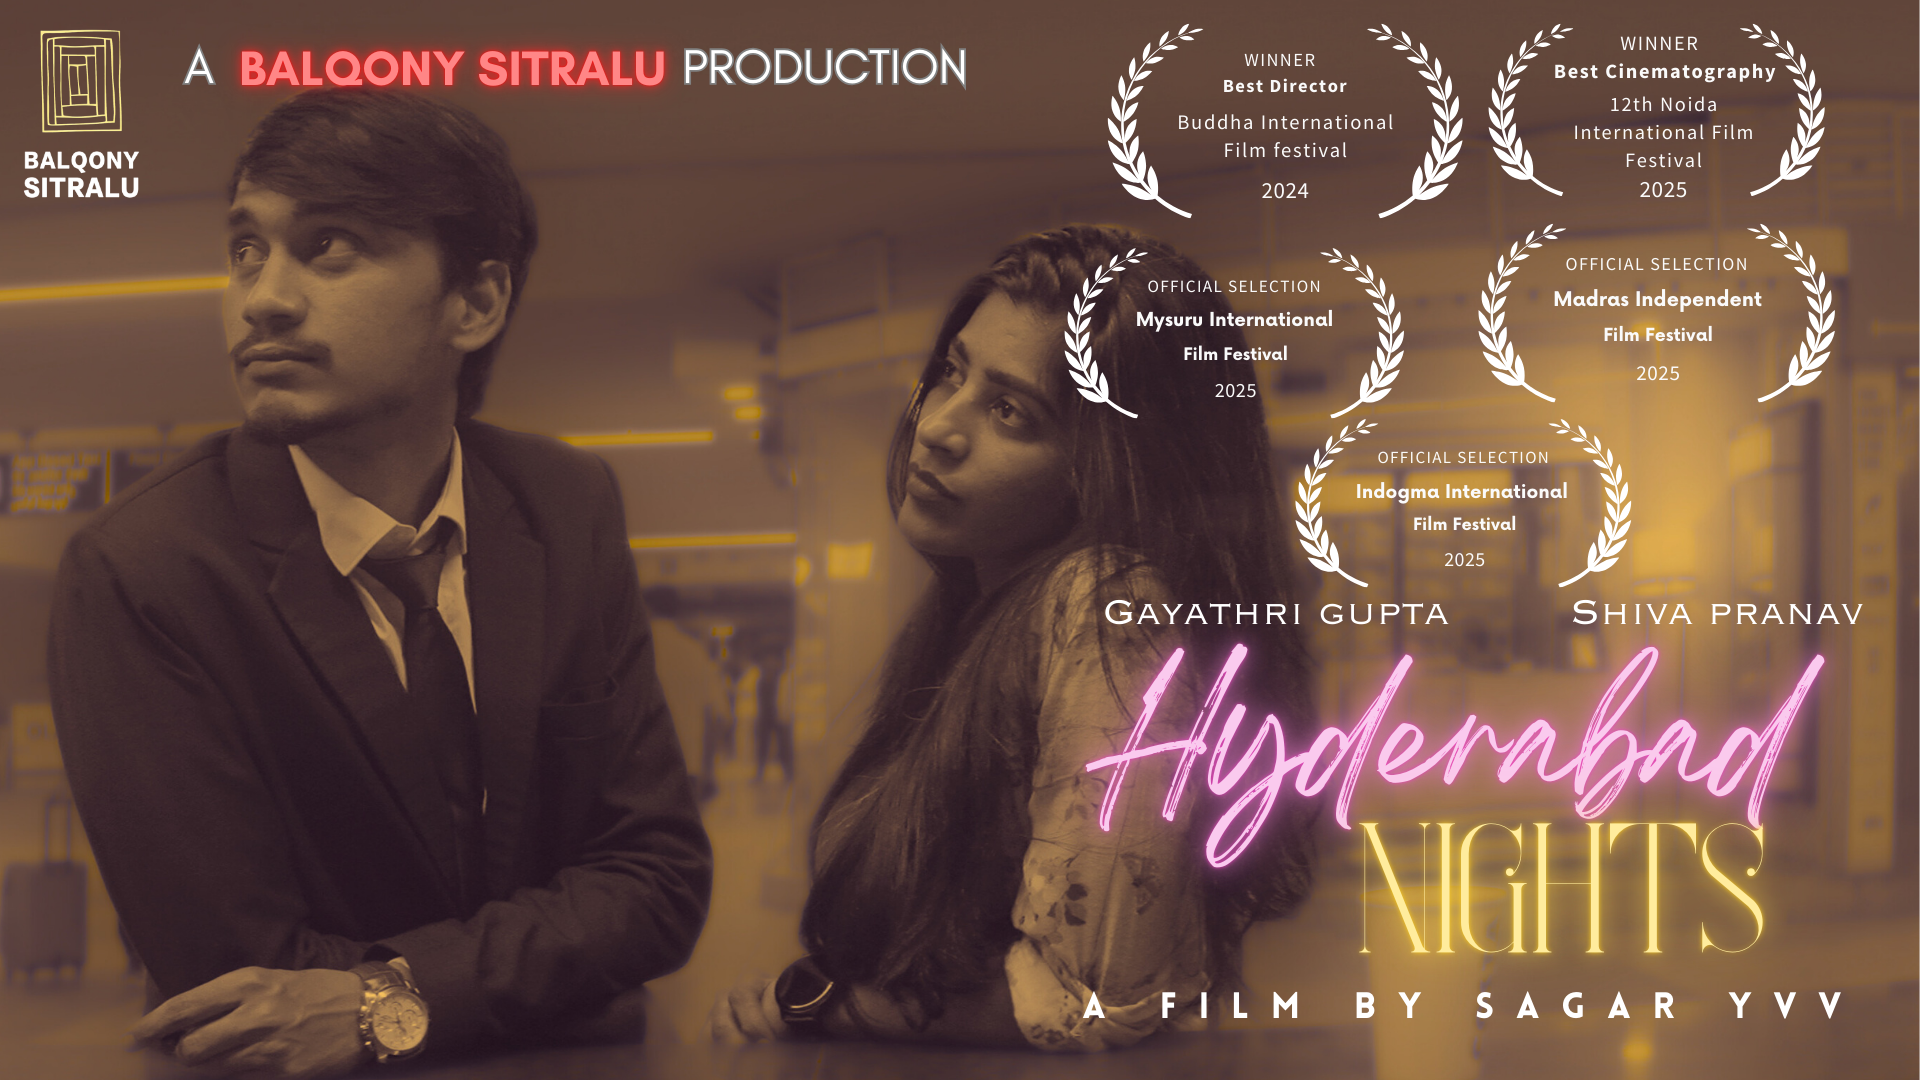
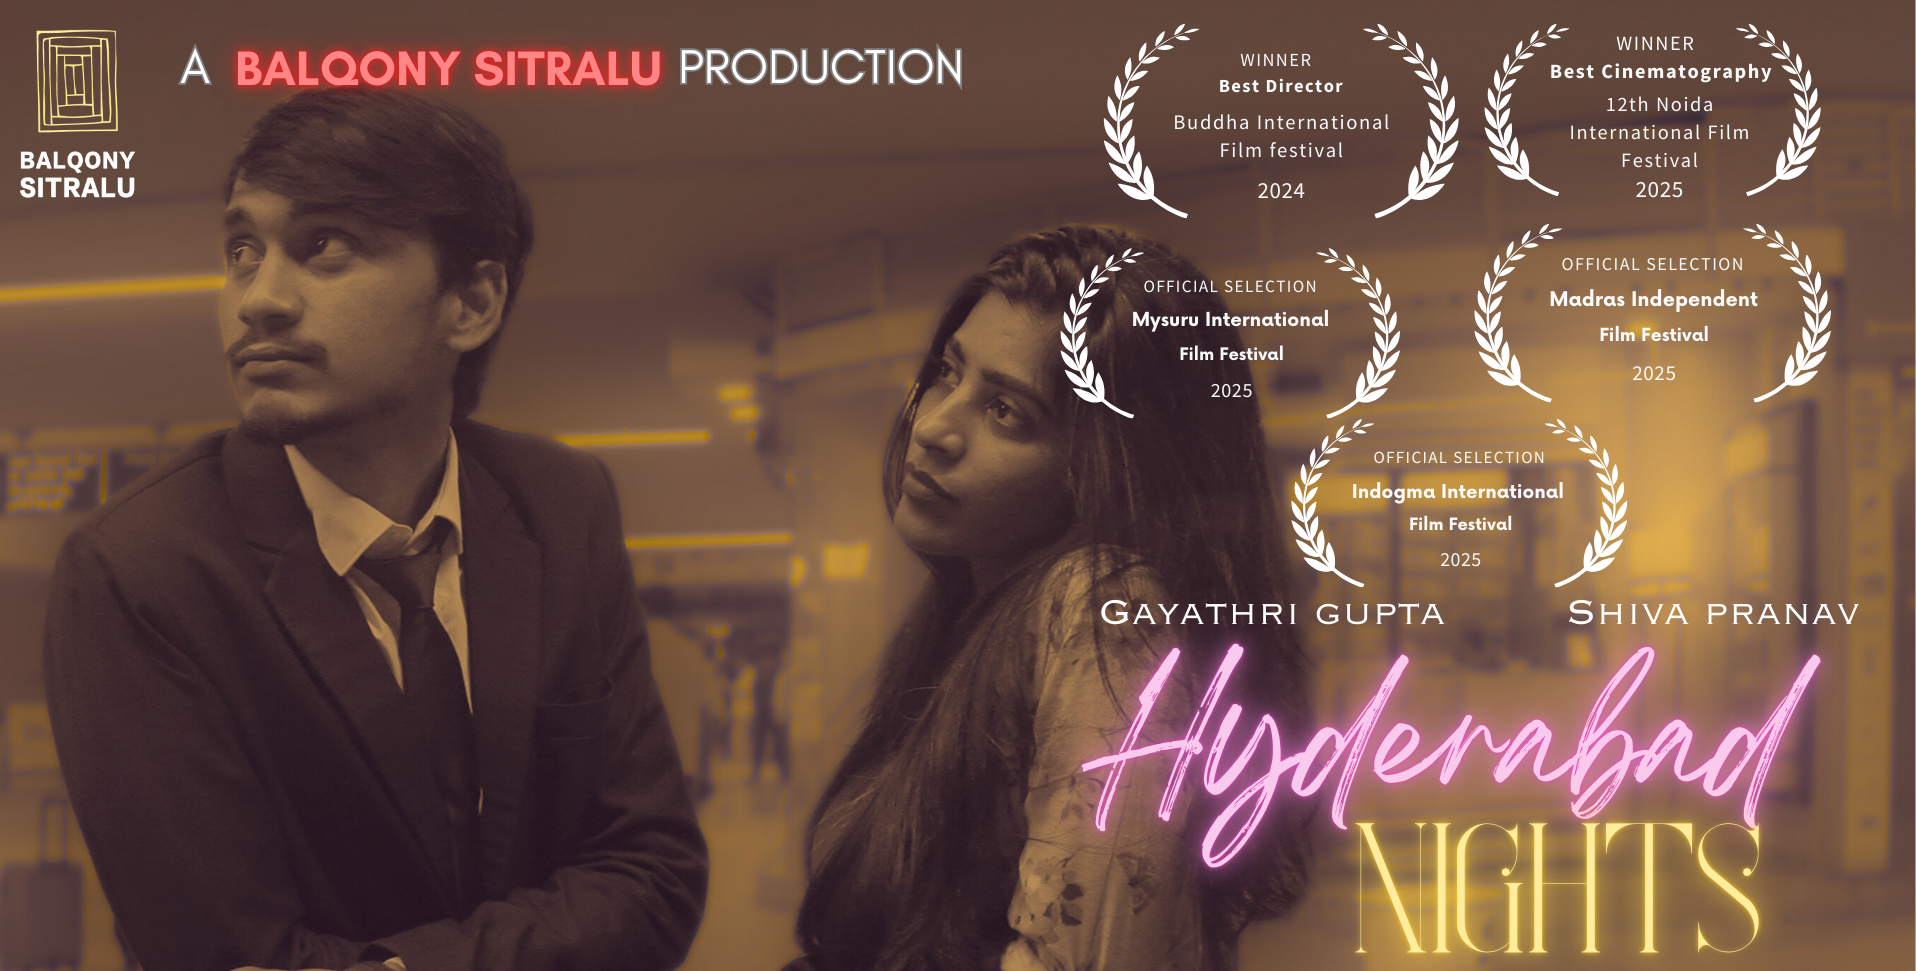
Deploy: latest changes

diff --git a/components/video-section.tsx b/components/video-section.tsx
@@ -11,6 +11,7 @@ export function VideoSection() {
   const [isMuted, setIsMuted] = useState(true);
   const [isVisible, setIsVisible] = useState(false);
   const [isPiP, setIsPiP] = useState(false);
+  const [showAnimatedText, setShowAnimatedText] = useState(false);
   const videoRef = useRef<HTMLVideoElement>(null);
   const textSectionRef = useRef<HTMLDivElement>(null);
   const router = useRouter();
@@ -43,6 +44,13 @@ export function VideoSection() {
     }
 
     return () => observer.disconnect();
+  }, []);
+
+  useEffect(() => {
+    const timer = setTimeout(() => {
+      setShowAnimatedText(true);
+    }, 1000);
+    return () => clearTimeout(timer);
   }, []);
 
   useEffect(() => {
@@ -138,7 +146,7 @@ export function VideoSection() {
         </div>
 
         {/* Minimal custom controls */}
-        <div className="absolute bottom-6 right-6 z-10 flex gap-3">
+        <div className="absolute bottom-6 left-6 z-10 flex gap-3">
           <Button
             onClick={togglePlay}
             aria-label={isPlaying ? "Pause video" : "Play video"}
@@ -165,14 +173,40 @@ export function VideoSection() {
           </Button>
         </div>
 
+        {/* Animated text "Make stories that move" sliding from bottom left to bottom right */}
+        <div className="absolute bottom-20 right-6 z-10 overflow-hidden w-full max-w-md">
+          <div
+            className={`text-white text-2xl md:text-3xl font-medium tracking-wide transition-all duration-[4000ms] ease-out ${
+              showAnimatedText
+                ? "translate-x-0 translate-y-0 opacity-100"
+                : "-translate-x-[400px] translate-y-12 opacity-0"
+            }`}
+            style={{
+              fontFamily: "var(--font-cormorant)",
+              textShadow: "0 2px 8px rgba(0,0,0,0.8), 0 0 16px rgba(0,0,0,0.6)",
+              transform: showAnimatedText
+                ? "translateX(0px) translateY(0px)"
+                : "translateX(-400px) translateY(48px)",
+            }}
+          >
+            Make stories that move
+          </div>
+        </div>
+
         {/* Elegant CTA button overlay */}
-        <div className="absolute inset-0 flex items-center justify-center z-20">
+        <div className="absolute bottom-6 right-6 z-20">
           <Button
             onClick={handleViewWork}
-            className="group bg-white/10 text-white border border-white/20 backdrop-blur-md hover:bg-white/20 hover:border-white/30 hover:shadow-[0_0_30px_rgba(255,255,255,0.2)] transition-all duration-500 px-8 py-4 text-lg font-medium rounded-full"
+            className="group relative bg-white/10 text-white border border-white/20 backdrop-blur-md hover:bg-white/20 hover:border-white/30 transition-all duration-500 px-6 py-3 text-base font-medium rounded-full overflow-hidden hover:shadow-[0_0_40px_rgba(255,255,255,0.4)] hover:scale-105"
           >
-            View Our Work
-            <ArrowRight className="ml-2 h-5 w-5 group-hover:translate-x-1 transition-transform duration-300" />
+            <div className="absolute inset-0 bg-white/0 group-hover:bg-white/5 transition-all duration-500 rounded-full" />
+            <div className="absolute inset-0 opacity-0 group-hover:opacity-100 transition-opacity duration-500">
+              <div className="absolute inset-0 bg-gradient-to-r from-white/10 via-white/20 to-white/10 blur-sm rounded-full" />
+            </div>
+            <span className="relative z-10 flex items-center">
+              View Our Work
+              <ArrowRight className="ml-2 h-4 w-4 group-hover:translate-x-1 transition-transform duration-300" />
+            </span>
           </Button>
         </div>
 
@@ -246,7 +280,7 @@ export function VideoSection() {
           {/* it is simple (slightly smaller) with delayed animation */}
           <div className="overflow-hidden">
             <p
-              className={`text-2xl sm:text-3xl md:text-4xl text-foreground/90 transition-all duration-1000 ease-out hover:text-yellow-400 hover:scale-102 cursor-default ${
+              className={`text-2xl sm:text-3xl md:text-4xl text-foreground/90 transition-all duration-1000 ease-out hover:text-yellow-400 hover:scale-[1.02] cursor-default ${
                 isVisible
                   ? "translate-y-0 opacity-100"
                   : "translate-y-full opacity-0"

diff --git a/app/contact/page.tsx b/app/contact/page.tsx
@@ -8,6 +8,8 @@ import { Card, CardContent } from "@/components/ui/card";
 import { Input } from "@/components/ui/input";
 import { Textarea } from "@/components/ui/textarea";
 import { Label } from "@/components/ui/label";
+import Link from "next/link";
+
 import {
   Select,
   SelectContent,
@@ -413,19 +415,30 @@ export default function ContactPage() {
       <section className="py-20 bg-background">
         <div className="max-w-4xl mx-auto px-4 sm:px-6 lg:px-8 text-center group">
           <h2 className="text-4xl font-bold text-foreground mb-6 transition-all duration-500 group-hover:text-primary group-hover:scale-105 cursor-default">
-            Let's Create Something Amazing
+            Ready to Work Together?
           </h2>
           <p className="text-xl text-muted-foreground mb-8 transition-all duration-500 group-hover:text-foreground">
-            Every great project starts with a conversation. We're excited to
-            hear about your vision and explore how we can bring it to life.
+            Let's discuss how we can bring your vision to life with our
+            expertise and passion for storytelling.
           </p>
-          <div className="flex justify-center">
+
+          <div className="flex flex-col sm:flex-row gap-4 justify-center">
+            {/* Start Your Project -> /contact */}
             <Button
+              asChild
               size="lg"
-              onClick={handleSchedule}
               className="bg-primary hover:bg-primary/90 text-primary-foreground px-8 py-4 rounded-full transition-all duration-300 hover:scale-110 hover:shadow-[0_0_30px_rgba(255,255,0,0.4)] hover:-translate-y-2 hover:rotate-1 active:scale-95"
             >
-              Schedule a Call
+              <Link href="/contact">Start Your Project</Link>
+            </Button>
+
+            {/* View Our Work -> /work */}
+            <Button
+              asChild
+              size="lg"
+              className="bg-primary hover:bg-primary/90 text-primary-foreground px-8 py-4 rounded-full transition-all duration-300 hover:scale-110 hover:shadow-[0_0_30px_rgba(255,255,0,0.4)] hover:-translate-y-2 hover:rotate-1 active:scale-95"
+            >
+              <Link href="/work">View Our Work</Link>
             </Button>
           </div>
         </div>

diff --git a/app/work/page.tsx b/app/work/page.tsx
@@ -42,7 +42,7 @@ const projects: Project[] = [
     title: "AD",
     client: "Aegon",
     category: "Corporate",
-    year: "2024",
+    year: "",
     description:
       "A crisp corporate brand film highlighting people, culture, and impact—shot across Hyderabad offices and shopfloors with clean graphics and VO.",
     image: "/images/aegon.png",
@@ -54,7 +54,7 @@ const projects: Project[] = [
     title: "BTC - Behind The Card",
     client: "Balqony Sitraalu",
     category: "Documentary",
-    year: "2023",
+    year: "",
     description:
       "A behind-the-scenes documentary following our design and VFX team crafting a signature title card—scribbles to storyboards to final comp.",
     image: "/images/btc.png",
@@ -67,7 +67,7 @@ const projects: Project[] = [
     title: "Ee Sannivesham",
     client: "Independent Artist",
     category: "Music Video",
-    year: "2023",
+    year: "",
     description:
       "A Telugu music video about a fleeting moment—warm sodium lights, handheld energy, intimate blocking, and a hook that lingers.",
     image: "/images/es.png",
@@ -81,7 +81,7 @@ const projects: Project[] = [
     title: "Podcasts",
     client: "",
     category: "Social Media",
-    year: "2024",
+    year: "",
     description:
       "Snackable vertical edits from long-form conversations—studio-lit frames, animated captions, rhythmic cuts for Reels & Shorts.",
     image: "/images/bqk.png",
@@ -93,7 +93,7 @@ const projects: Project[] = [
     title: "Honey Ad",
     client: "Balqony Sitraalu",
     category: "Commercial",
-    year: "2024",
+    year: "",
     description:
       "A dreamlike commercial that wanders through rain-washed lanes and moonlit markets—minimal narrative, lush frames, and a shimmering product reveal.",
     image: "/images/honey1.jpg", // Keep as fallback
@@ -106,7 +106,7 @@ const projects: Project[] = [
     title: "Akshabhyasam",
     client: "",
     category: "Short Film",
-    year: "2024",
+    year: "",
     description:
       "Coverage of the traditional ‘Akshabhyasam’ ceremony—first letters, blessings, candid family moments. Multi-cam, clean audio, elegant grade.",
     image: "/images/aksh.png",

diff --git a/app/about/page.tsx b/app/about/page.tsx
@@ -279,7 +279,7 @@ Keeper of alt takes and late-night coffee.`,
               asChild
               variant="outline"
               size="lg"
-              className="border-[var(--primary)] text-[var(--primary)] hover:bg-[var(--primary)] hover:text-[var(--primary-foreground)] px-8 py-4 bg-transparent transition-all duration-300 hover:scale-110 hover:shadow-[0_0_25px_rgba(250,204,21,0.35)] hover:-translate-y-2 hover:-rotate-1 active:scale-95"
+              className="border-[var(--primary)] text-[var(--primary)] hover:bg-[var(--primary)] hover:text-[var(--primary-foreground)] hover:border-yellow-400 px-8 py-4 bg-transparent transition-all duration-300 hover:shadow-[0_0_30px_rgba(255,255,255,0.6),0_0_60px_rgba(255,255,255,0.3)] active:scale-95"
             >
               <Link href="/contact">Start Your Project</Link>
             </Button>
@@ -289,7 +289,7 @@ Keeper of alt takes and late-night coffee.`,
               asChild
               variant="outline"
               size="lg"
-              className="border-[var(--primary)] text-[var(--primary)] hover:bg-[var(--primary)] hover:text-[var(--primary-foreground)] px-8 py-4 bg-transparent transition-all duration-300 hover:scale-110 hover:shadow-[0_0_25px_rgba(250,204,21,0.35)] hover:-translate-y-2 hover:-rotate-1 active:scale-95"
+              className="border-[var(--primary)] text-[var(--primary)] hover:bg-[var(--primary)] hover:text-[var(--primary-foreground)] hover:border-yellow-400 px-8 py-4 bg-transparent transition-all duration-300 hover:shadow-[0_0_30px_rgba(255,255,255,0.6),0_0_60px_rgba(255,255,255,0.3)] active:scale-95"
             >
               <Link href="/work">View Our Work</Link>
             </Button>

diff --git a/app/hyderabad-nights/page.tsx b/app/hyderabad-nights/page.tsx
@@ -45,7 +45,7 @@ export default function HyderabadNightsPage() {
     },
   ];
 
-  const heroImage = "/images/hnpd.png"; // full-screen hero image
+  const heroImage = "/images/hnpd.jpg"; // full-screen hero image
 
   const openModal = (index: number) => setSelectedImage(index);
   const closeModal = () => setSelectedImage(null);
@@ -62,7 +62,7 @@ export default function HyderabadNightsPage() {
     <div className="min-h-screen bg-background text-foreground relative overflow-hidden">
       <Navigation />
 
-      {/* Full-screen hero image (zoomed out 3x) */}
+      {/* Full-screen hero image (zoomed in 3x) */}
       <div className="relative h-[100svh] w-screen overflow-hidden">
         <img
           src={
@@ -72,7 +72,7 @@ export default function HyderabadNightsPage() {
           alt="Hyderabad Nights Hero"
           loading="eager"
           decoding="async"
-          className="absolute inset-0 w-full h-full object-cover origin-center transform-gpu scale-[0.1667]"
+          className="absolute inset-0 w-full h-full object-cover origin-center transform-gpu scale-[0.9]"
         />
       </div>
 
